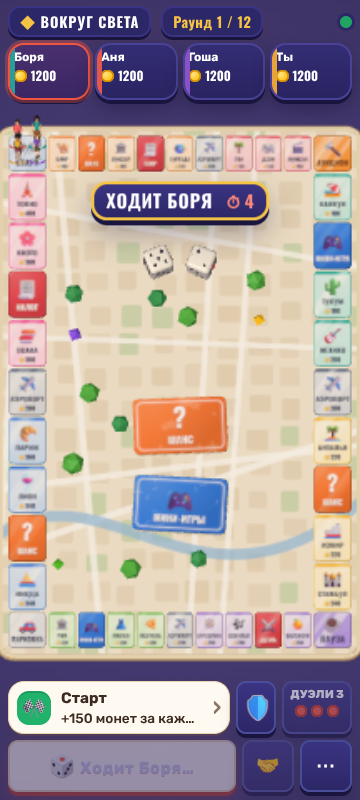
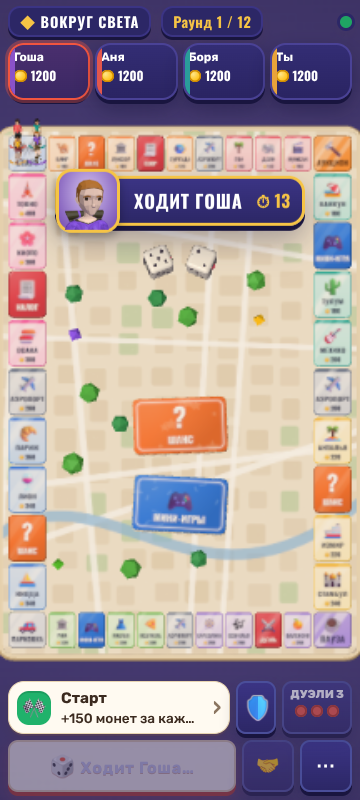
Экраны в новом стиле: карточка клетки с актуальной таблицей аренды (2 из 3, аэропорты, аренда сейчас), медали и крупные портреты в результатах, единый стиль окон; склонение в титулах; PROGRESS и VALIDATION
Claude-Session: https://claude.ai/code/session_01LHF2r8ytZCnyCujdkcjUQd

diff --git a/apps/client/src/ui/sheets/Sheets.tsx b/apps/client/src/ui/sheets/Sheets.tsx
@@ -1,5 +1,5 @@
 import { useEffect, useMemo, useState } from 'react';
-import { GROUPS, WORLD, RULESET, groupTiles } from '@pb/content';
+import { GROUPS, WORLD, RULESET, WORLD_EVENTS, groupTiles } from '@pb/content';
 import { available, isTradeableTile, mortgageValue, ownedTiles, rentFor, unmortgageCost, upgradeCost } from '@pb/game-core';
 import type { Command, MatchState, PublicMatch, TradeSide } from '@pb/game-core';
 import { api, send } from '../../net/connection';
@@ -55,6 +55,41 @@ function manageReason(m: PublicMatch, seat: string | null, raising: boolean): st
   return null;
 }
 
+/** Rent ladder of a tile; the row that applies now (without world events) is highlighted. */
+function RentTable({ tile }: { tile: number }) {
+  const m = useMatch();
+  const t = WORLD.tiles[tile]!;
+  const o = m.tiles[tile];
+  if (!o) return null;
+  const group = groupTiles(WORLD, t.group!);
+  const mine = o.owner ? group.filter((i) => m.tiles[i]?.owner === o.owner && !m.tiles[i]!.mortgaged).length : 0;
+  const rows: [string, number, boolean][] =
+    t.group === 'air'
+      ? RULESET.airportRent.map((v, k) => [`${k + 1} аэропорт${k === 0 ? '' : k < 4 ? 'а' : 'ов'} у владельца`, v, !!o.owner && mine === k + 1] as [string, number, boolean])
+      : [
+          ['Один город', t.baseRent!, !!o.owner && o.level === 0 && mine < group.length - 1],
+          ['2 города из 3', Math.floor(t.baseRent! * RULESET.partialSetMultiplier), !!o.owner && o.level === 0 && mine === group.length - 1],
+          ['Вся страна', t.baseRent! * RULESET.fullSetMultiplier, !!o.owner && o.level === 0 && mine === group.length],
+          ['Уровень 1 ◆', t.baseRent! * RULESET.upgradeMultipliers[1], o.level === 1],
+          ['Уровень 2 ◆◆', t.baseRent! * RULESET.upgradeMultipliers[2], o.level === 2],
+          ['Уровень 3 ◆◆◆', t.baseRent! * RULESET.upgradeMultipliers[3], o.level === 3],
+        ];
+  return (
+    <table className="rent">
+      <tbody>
+        {rows.map(([label, v, on], k) => (
+          <tr key={k} className={on ? 'on' : ''}>
+            <td>{label}</td>
+            <td>
+              <Coins n={v} />
+            </td>
+          </tr>
+        ))}
+      </tbody>
+    </table>
+  );
+}
+
 function TileSheet({ tile }: { tile: number }) {
   const m = useMatch();
   const me = useStore((s) => s.seat);
@@ -67,6 +102,9 @@ function TileSheet({ tile }: { tile: number }) {
   const blocked = m.upgradeBlocks.some((b) => b.tile === tile);
   const why = manageReason(m, me, false);
   const whyRaise = manageReason(m, me, true);
+  const curRent = o?.owner ? rentFor(S(m), tile) : 0;
+  const e = m.worldEvent && m.worldEvent.round === m.round ? m.worldEvent : null;
+  const ev = e && ['tourism', 'storm', 'crisis'].includes(e.kind) ? WORLD_EVENTS.find((x) => x.kind === e.kind)?.title : null;
   return (
     <Sheet title={t.name} testId="tile-sheet">
       <div className="tile-head" style={{ background: specialColor(t) ?? '#5b4c86' }}>
@@ -92,28 +130,16 @@ function TileSheet({ tile }: { tile: number }) {
               {group.filter((i) => m.tiles[i]?.owner && m.tiles[i]!.owner === o.owner).length} / {group.length}
             </b>
           </div>
-          <table className="rent">
-            <tbody>
-              {[
-                ['Базовая аренда', t.baseRent!],
-                ['Полный комплект', t.baseRent! * RULESET.fullSetMultiplier],
-                ['Уровень 1', t.baseRent! * RULESET.upgradeMultipliers[1]],
-                ['Уровень 2', t.baseRent! * RULESET.upgradeMultipliers[2]],
-                ['Уровень 3', t.baseRent! * RULESET.upgradeMultipliers[3]],
-              ].map(([label, v], k) => (
-                <tr key={k} className={(k >= 2 && o.level === k - 1) || (k < 2 && o.owner && rentFor(S(m), tile) === v && o.level === 0) ? 'on' : ''}>
-                  <td>{label}</td>
-                  <td>
-                    <Coins n={v as number} />
-                  </td>
-                </tr>
-              ))}
-            </tbody>
-          </table>
+          <RentTable tile={tile} />
+          {curRent > 0 && <div className="kv now">
+            <span>Аренда сейчас{ev ? ` (${ev})` : ''}</span>
+            <Coins n={curRent} />
+          </div>}
           <div className="kv">
-            <span>Улучшение / залог / выкуп</span>
+            <span>{t.group === 'air' ? 'Залог / выкуп' : 'Улучшение / залог / выкуп'}</span>
             <b>
-              {money(upgradeCost(tile))} / {money(mortgageValue(tile))} / {money(unmortgageCost(tile))}
+              {t.group === 'air' ? '' : `${money(upgradeCost(tile))} / `}
+              {money(mortgageValue(tile))} / {money(unmortgageCost(tile))}
             </b>
           </div>
           {o.mortgaged && <div className="tag">Заложено — аренды нет</div>}
@@ -123,7 +149,7 @@ function TileSheet({ tile }: { tile: number }) {
       {trap && <div className="tag">🚧 Ловушка: следующий соперник платит {RULESET.trapFine} банку</div>}
       {mine && o && (
         <div className="row wrap">
-          <Act cmd={{ type: 'UPGRADE', tile }} label={`Улучшить (${money(upgradeCost(tile))})`} reason={why} primary />
+          {t.group !== 'air' && <Act cmd={{ type: 'UPGRADE', tile }} label={`Улучшить (${money(upgradeCost(tile))})`} reason={why} primary />}
           {o.level > 0 && <Act cmd={{ type: 'SELL_UPGRADE', tile }} label="Продать улучшение" reason={whyRaise} />}
           {!o.mortgaged && <Act cmd={{ type: 'MORTGAGE', tile }} label={`Заложить +${money(mortgageValue(tile))}`} reason={whyRaise} />}
           {o.mortgaged && <Act cmd={{ type: 'UNMORTGAGE', tile }} label={`Выкупить −${money(unmortgageCost(tile))}`} reason={why} />}

diff --git a/packages/game-core/src/titles.ts b/packages/game-core/src/titles.ts
@@ -9,17 +9,26 @@ export interface TitleDef {
   text: string;
 }
 
-export const TITLES: readonly TitleDef[] = [
-  { key: 'rentReceived', icon: '🏨', name: 'Король аренды', text: 'собрал {n} монет аренды' },
-  { key: 'rentPaid', icon: '💸', name: 'Щедрая душа', text: 'заплатил {n} монет аренды' },
-  { key: 'bought', icon: '🛍', name: 'Шопоголик', text: 'купил {n} объектов' },
-  { key: 'auctionsWon', icon: '🔨', name: 'Гроза аукционов', text: 'выиграл {n} аукционов' },
-  { key: 'tilesWalked', icon: '🧭', name: 'Турист года', text: 'прошёл {n} клеток' },
-  { key: 'chanceCards', icon: '🍀', name: 'Искатель удачи', text: 'вытянул {n} карт «Шанс»' },
-  { key: 'minigameWins', icon: '🎮', name: 'Чемпион мини-игр', text: 'победил в {n} мини-играх' },
-  { key: 'duelsWon', icon: '⚔', name: 'Дуэлянт', text: 'выиграл {n} дуэлей' },
-  { key: 'trades', icon: '🤝', name: 'Дипломат', text: 'заключил {n} сделок' },
-  { key: 'taxesPaid', icon: '🧾', name: 'Честный налогоплательщик', text: 'отдал {n} монет налогов' },
+/** Russian plural: 1 сделку / 2 сделки / 5 сделок. */
+export function plural(n: number, [one, few, many]: readonly [string, string, string]): string {
+  const m10 = n % 10;
+  const m100 = n % 100;
+  if (m10 === 1 && m100 !== 11) return one;
+  if (m10 >= 2 && m10 <= 4 && (m100 < 12 || m100 > 14)) return few;
+  return many;
+}
+
+export const TITLES: readonly (TitleDef & { forms: readonly [string, string, string] })[] = [
+  { key: 'rentReceived', icon: '🏨', name: 'Король аренды', text: 'собрал {n} аренды', forms: ['монету', 'монеты', 'монет'] },
+  { key: 'rentPaid', icon: '💸', name: 'Щедрая душа', text: 'заплатил {n} аренды', forms: ['монету', 'монеты', 'монет'] },
+  { key: 'bought', icon: '🛍', name: 'Шопоголик', text: 'купил {n}', forms: ['объект', 'объекта', 'объектов'] },
+  { key: 'auctionsWon', icon: '🔨', name: 'Гроза аукционов', text: 'выиграл {n}', forms: ['аукцион', 'аукциона', 'аукционов'] },
+  { key: 'tilesWalked', icon: '🧭', name: 'Турист года', text: 'прошёл {n}', forms: ['клетку', 'клетки', 'клеток'] },
+  { key: 'chanceCards', icon: '🍀', name: 'Искатель удачи', text: 'вытянул {n} «Шанс»', forms: ['карту', 'карты', 'карт'] },
+  { key: 'minigameWins', icon: '🎮', name: 'Чемпион мини-игр', text: 'победил в {n}', forms: ['мини-игре', 'мини-играх', 'мини-играх'] },
+  { key: 'duelsWon', icon: '⚔', name: 'Дуэлянт', text: 'выиграл {n}', forms: ['дуэль', 'дуэли', 'дуэлей'] },
+  { key: 'trades', icon: '🤝', name: 'Дипломат', text: 'заключил {n}', forms: ['сделку', 'сделки', 'сделок'] },
+  { key: 'taxesPaid', icon: '🧾', name: 'Честный налогоплательщик', text: 'отдал {n} налогов', forms: ['монету', 'монеты', 'монет'] },
 ];
 
 export interface AwardedTitle {
@@ -38,7 +47,7 @@ export function matchTitles(s: { stats: MatchState['stats']; players: readonly {
     for (const p of s.players) best = Math.max(best, stats[p.seat]?.[t.key] ?? 0);
     if (best <= 0) continue;
     for (const p of s.players) {
-      if ((stats[p.seat]?.[t.key] ?? 0) === best) res.push({ seat: p.seat, title: t, value: best, text: t.text.replace('{n}', String(best)) });
+      if ((stats[p.seat]?.[t.key] ?? 0) === best) res.push({ seat: p.seat, title: t, value: best, text: t.text.replace('{n}', `${best} ${plural(best, t.forms)}`) });
     }
   }
   return res;

diff --git a/apps/client/src/ui/styles.css b/apps/client/src/ui/styles.css
@@ -426,3 +426,25 @@ input, select { background: #fff; }
 @media (prefers-reduced-motion: reduce) {
   * { animation: none !important; transition: none !important; }
 }
+
+/* ---------- V2 polish: sheets, modals, mini-game cards, results (04.11.2026) ---------- */
+.sheet-head h3, .modal h2, .modal h3, .mg-intro h2, .mg-results h2 { font-family: var(--display); font-weight: 700; color: var(--navy); letter-spacing: 0.02em; }
+.modal h2 { font-size: 1.9rem; }
+.mg-label { justify-self: center; background: var(--navy); color: var(--gold); padding: 4px 14px; border-radius: 999px; font-size: 0.95rem; }
+.mg-card { border-top: 6px solid var(--gold); }
+.results { border-collapse: separate; border-spacing: 0 6px; }
+.results tr td { background: linear-gradient(180deg, #fff, #f6ecd9); padding: 8px 10px; }
+.results tr td:first-child { border-radius: 12px 0 0 12px; }
+.results tr td:last-child { border-radius: 0 12px 12px 0; }
+.results tr.me td { background: linear-gradient(180deg, #fff4ee, #ffe2d6); color: var(--coral-2); font-weight: 700; }
+.results td.place { font-size: 1.5rem; width: 44px; text-align: center; }
+.results .portrait { vertical-align: middle; margin-right: 6px; }
+.tile-head { min-height: 64px; font-size: 1.5rem; box-shadow: inset 0 -4px 0 rgba(0, 0, 0, 0.12); }
+.tile-head .big-icon { display: grid; place-items: center; width: 46px; height: 46px; border-radius: 14px; background: rgba(255, 255, 255, 0.9); }
+.rent tr td { padding: 5px 8px; }
+.rent tr.on td { background: #fff1c9; font-weight: 700; color: var(--navy); }
+.rent tr.on td:first-child { border-radius: 8px 0 0 8px; }
+.rent tr.on td:last-child { border-radius: 0 8px 8px 0; }
+.kv.now { padding: 6px 8px; border-radius: 10px; background: #e9f9ef; font-weight: 700; }
+.modal.finished { border-top: 6px solid var(--gold); }
+.sheet { border-top: 5px solid var(--navy); }

diff --git a/apps/client/src/ui/minigames/MinigameOverlay.tsx b/apps/client/src/ui/minigames/MinigameOverlay.tsx
@@ -254,9 +254,9 @@ function Results({ mg, m, me }: { mg: PublicMinigame; m: PublicMatch; me: string
             const p = m.players.find((x) => x.seat === r.seat)!;
             return (
               <tr key={r.seat} className={r.seat === me ? 'me' : ''}>
-                <td>{r.place ?? (r.ghost ? '👻' : '—')}</td>
+                <td className="place">{r.place === 1 ? '🥇' : r.place === 2 ? '🥈' : r.place === 3 ? '🥉' : (r.place ?? (r.ghost ? '👻' : '—'))}</td>
                 <td>
-                  <Portrait avatar={p.avatar} color={p.color} ghost={r.ghost} size={24} appearance={p.appearance} /> {seatName(m, r.seat, me)}
+                  <Portrait avatar={p.avatar} color={p.color} ghost={r.ghost} size={34} appearance={p.appearance} /> {seatName(m, r.seat, me)}
                 </td>
                 <td>{r.participated ? `${r.score} очк.` : 'не играл'}</td>
                 <td>{mg.context === 'group' ? (r.ghost ? (r.participated ? '+1 ⚡' : '') : r.prize ? `+${money(r.prize)}` : '') : ''}</td>

diff --git a/apps/client/src/ui/match/Overlays.tsx b/apps/client/src/ui/match/Overlays.tsx
@@ -183,9 +183,9 @@ export function FinishedOverlay() {
               const p = m.players.find((x) => x.seat === s.seat)!;
               return (
                 <tr key={s.seat} className={s.seat === me ? 'me' : ''}>
-                  <td>{s.rank ?? (s.role === 'ghost' ? '👻' : '—')}</td>
+                  <td className="place">{s.rank === 1 ? '🥇' : s.rank === 2 ? '🥈' : s.rank === 3 ? '🥉' : (s.rank ?? (s.role === 'ghost' ? '👻' : '—'))}</td>
                   <td>
-                    <Portrait avatar={p.avatar} color={p.color} ghost={s.role === 'ghost'} size={28} appearance={p.appearance} /> {seatName(m, s.seat, me)}
+                    <Portrait avatar={p.avatar} color={p.color} ghost={s.role === 'ghost'} size={40} appearance={p.appearance} /> {seatName(m, s.seat, me)}
                   </td>
                   <td>{s.role === 'alive' ? `${money(s.value)} монет` : s.role === 'ghost' ? `проделок: ${s.pranks}` : 'вышел'}</td>
                 </tr>

diff --git a/packages/game-core/tests/simulation.test.ts b/packages/game-core/tests/simulation.test.ts
@@ -29,3 +29,11 @@ describe('титулы в конце партии', () => {
     expect(titles.some((t) => t.title.key === 'tilesWalked')).toBe(true);
   });
 });
+
+describe('склонение в титулах', () => {
+  it('1 сделку, 2 сделки, 5 сделок, 11 сделок, 21 сделку', async () => {
+    const { plural } = await import('../src');
+    const f = ['сделку', 'сделки', 'сделок'] as const;
+    expect([1, 2, 5, 11, 21, 104].map((n) => plural(n, f))).toEqual(['сделку', 'сделки', 'сделок', 'сделок', 'сделку', 'сделки']);
+  });
+});

diff --git a/PROGRESS.md b/PROGRESS.md
@@ -51,6 +51,16 @@
 - **40 клеток + «Вокруг света» (02.11, по решению пользователя):** карта, раскладки ПК/телефона, тесты (68/68), документы обновлены (`docs/RULES_V1.md`). Не сделано: приближение камеры на телефоне (ряды мелкие), пересмотр экономики (у ботов 0 банкротств и почти нет комплектов).
 - **Не проверено:** реальные ПК-видеокарты и телефоны (FPS, нагрев, батарея); вид на iOS/Android WebView; остальные экраны (вход, лобби, мини-игры, итоги) получили только светлую палитру.
 
+## 04.11.2026 — пакет улучшений «по порядку» (решение пользователя)
+1. **Боты в обычных партиях:** галочка хозяина «Добавить ботов» — можно играть вдвоём/втроём/одному; вышедшего заменяет бот; пропавший со связью > 45 с играет «на автопилоте», место остаётся за ним. Значок 🤖.
+2. **3D-портреты персонажей** (рендер один раз, кэш) в карточках игроков, лобби, мини-играх, итогах; портрет текущего игрока на плашке хода. Выбор зверька убран (запасной портрет).
+3. **Анимации:** персонаж идёт по клеткам (Walk) и поворачивается, победитель машет; всплывающие «+N/−N», монета от плательщика к владельцу, штамп «КУПЛЕНО», «УЛУЧШЕНО».
+4. **События мира** каждый раунд со 2-го (9 видов), плашка вверху, карточка, журнал.
+5. **Титулы в конце партии** (10 наград по счётчикам партии, со склонением).
+6. **Звук и музыка** — синтез Web Audio, 15 звуков + процедурная музыка, громкость музыки отдельно. В облаке не слушалось.
+7. **Экраны:** карточка клетки с правильной таблицей аренды (2 из 3, аэропорты по числу, «аренда сейчас» с событием), медали и крупные портреты в результатах, единый стиль окон.
+Не сделано: подлёт камеры к событию (мешает подгонка поля), проверка звука на слух, телефон.
+
 ## Выгрузка в интернет (03.11.2026) — подготовлено, ждёт пользователя
 - `render.yaml` (Render.com, бесплатный web-сервис: сервер + собранный клиент), `.node-version`, инструкция для пользователя — **`docs/DEPLOY.md`**. Production-сборка проверена локально: 4 браузера, комната, старт, бросок; dev-инструменты в production отклоняются. **Пользователь должен:** зарегистрироваться на render.com через GitHub и создать Blueprint (шаги в `docs/DEPLOY.md`). Ограничения бесплатного тарифа: засыпает через 15 мин без игроков (просыпается ~1 мин), недоигранная партия теряется при перезапуске.
 

diff --git a/docs/VALIDATION.md b/docs/VALIDATION.md
@@ -113,3 +113,12 @@
 
 ## 03.11.2026 — подготовка к выгрузке на Render
 `npm run build` ✅ (клиент `apps/client/dist` 9,1 МБ вместе с моделями персонажей; сервер `dist/server.mjs` 146 КБ). Production-запуск как на Render (`HOST=0.0.0.0`, `STATIC_DIR=../client/dist`, без `PB_DEV`): `/health` ✅, главная страница и `models/characters/*.glb` раздаются ✅; 4 независимых браузера: комната, «Готов», старт, бросок кубиков ✅, ошибок в консоли нет; флажок ботов не показывается, `dev:cheat` отклонён ✅. На самом Render не запускалось (нужна регистрация пользователя).
+
+## 04.11.2026 — боты в партиях, портреты, анимации, события мира, титулы, звук, экраны
+| Команда | Результат |
+|---|---|
+| `npm run typecheck` | ✅ |
+| `npm test` | ✅ 89/89 (новые: сервер — старт вдвоём с ботами в обычном режиме и ход бота, вышедшего заменяет бот, автопилот после 45 с; ядро — события мира: выпадение со 2-го раунда, туризм/шторм/кризис/распродажа/фестиваль/каникулы/бум; титулы после партии ботов; склонение) |
+| `npm run e2e` | ✅ 1/1 за 3,9 мин (в кадрах видны плашки событий «Фестиваль», «Лотерея», медали, титулы, 3D-портреты) |
+
+Проверено в облачном браузере дополнительно: старт с ботами через галочку, ходьба персонажа, штамп «КУПЛЕНО −150» при распродаже, карточка события раунда; ошибок в консоли нет. **Звук на слух не проверялся** (нет динамиков в облаке) — только отсутствие ошибок Web Audio.
